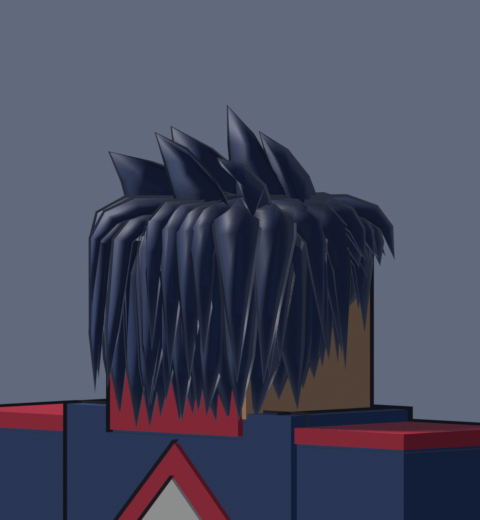
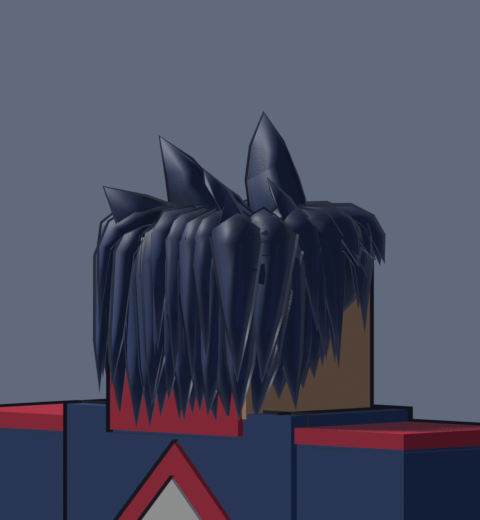
Linajes: Puntas con seis puntas asimétricas que nacen del pelo

diff --git a/linajes/arte/scripts/personajes/pelo_hebras.py b/linajes/arte/scripts/personajes/pelo_hebras.py
@@ -12,6 +12,7 @@ en exports/cuerpo-comic/.
 import math
 import os
 import random
+import sys
 
 import bmesh
 import bpy
@@ -164,21 +165,21 @@ def peinado_puntas():
         fin = fin_de_pelo(g) + azar(0.0, 0.08)
         if abs(g) < 72:
             fin = max(fin, 0.1)
-        m.mechon(g, CORONILLA, s_de_altura(fin), 0.044, 0.02, azar(-12, 12), azar(0.006, 0.03))
+        m.mechon(g, 0.3, s_de_altura(fin), 0.044, 0.014, azar(-12, 12), azar(0.006, 0.03))
     for i in range(22):
         g = i / 22 * 360 - 180 + azar(-6, 6)
         fin = s_de_altura(azar(0.085, 0.13)) if abs(g) < 72 else azar(1.0, 1.3)
-        m.mechon(g, 0.0, fin, 0.046, 0.036, azar(-16, 16), 0.012, capa="arriba")
-    # Seis puntas grandes hacia arriba y atrás; ninguna sale hacia los costados.
-    for x, y, tx, ty, alto in (
-        (-0.1, -0.07, -0.11, 0.06, 0.34),
-        (0.0, -0.09, 0.0, 0.03, 0.38),
-        (0.1, -0.07, 0.11, 0.06, 0.34),
-        (-0.11, 0.05, -0.135, 0.19, 0.3),
-        (0.0, 0.05, 0.0, 0.21, 0.34),
-        (0.11, 0.05, 0.135, 0.19, 0.3),
+        m.mechon(g, 0.1, fin, 0.052, 0.022, azar(-16, 16), 0.012, capa="arriba")
+    # Seis puntas de distinto tamaño, en varias filas y asimétricas, inclinadas hacia atrás.
+    for x, y, tx, ty, alto, ancho in (
+        (-0.03, -0.1, -0.06, 0.0, 0.37, 0.095),
+        (0.09, -0.07, 0.15, 0.03, 0.29, 0.075),
+        (-0.12, -0.03, -0.15, 0.08, 0.26, 0.07),
+        (0.02, 0.02, 0.04, 0.16, 0.33, 0.09),
+        (-0.08, 0.08, -0.12, 0.21, 0.28, 0.08),
+        (0.11, 0.07, 0.12, 0.22, 0.24, 0.07),
     ):
-        m.punta((x, y, 0.13), (x, y + 0.01, 0.25), (tx, ty, alto), 0.075)
+        m.punta((x, y, 0.1), (x, y + 0.01, alto * 0.65), (tx, ty, alto), ancho)
     for i in range(13):
         g = -68 + i * 11.3 + azar(-2, 2)
         fin = azar(0.075, 0.115) if i % 3 else azar(0.05, 0.07)
@@ -343,7 +344,10 @@ def main():
     sol.data.energy = 3.2
     e.render.resolution_x, e.render.resolution_y = 480, 520
 
+    pedidos = sys.argv[sys.argv.index("--") + 1 :] if "--" in sys.argv else []  # vacío = todos
     for nombre, armar in (("puntas", peinado_puntas), ("corto", peinado_corto), ("flequillo", peinado_flequillo)):
+        if pedidos and nombre not in pedidos:
+            continue
         random.seed(11)
         datos = armar()
         print("PEINADO", nombre)
